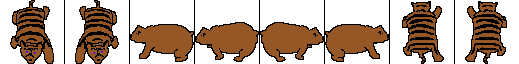
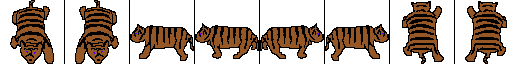
Tiger images

Changed region(s): [[0.2466, 0.3438, 0.7707, 0.9688]]

diff --git a/LD27/src/com/ion/ld27/map/StageManager.java b/LD27/src/com/ion/ld27/map/StageManager.java
@@ -11,7 +11,7 @@ import com.ion.ld27.entities.items.Lantern;
 import com.ion.ld27.entities.items.Machete;
 import com.ion.ld27.entities.items.Pipe;
 import com.ion.ld27.entities.items.Stick;
-import com.ion.ld27.entities.mobs.Bear;
+import com.ion.ld27.entities.mobs.Tiger;
 import com.ion.ld27.hud.GPS;
 
 public class StageManager {
@@ -30,7 +30,7 @@ public class StageManager {
 			Game.entities.add(new JournalPage(1280, 1600, 1));
 			Game.entities.add(new Lantern(1728, 3200));
 			Game.entities.add(new CavePortal(1728, 4096, false, true, true));
-			Game.entities.add(new Bear(900, 640));
+			Game.entities.add(new Tiger(900, 640));
 			Map.load();
 		}
 		else if(newStage == 2){
